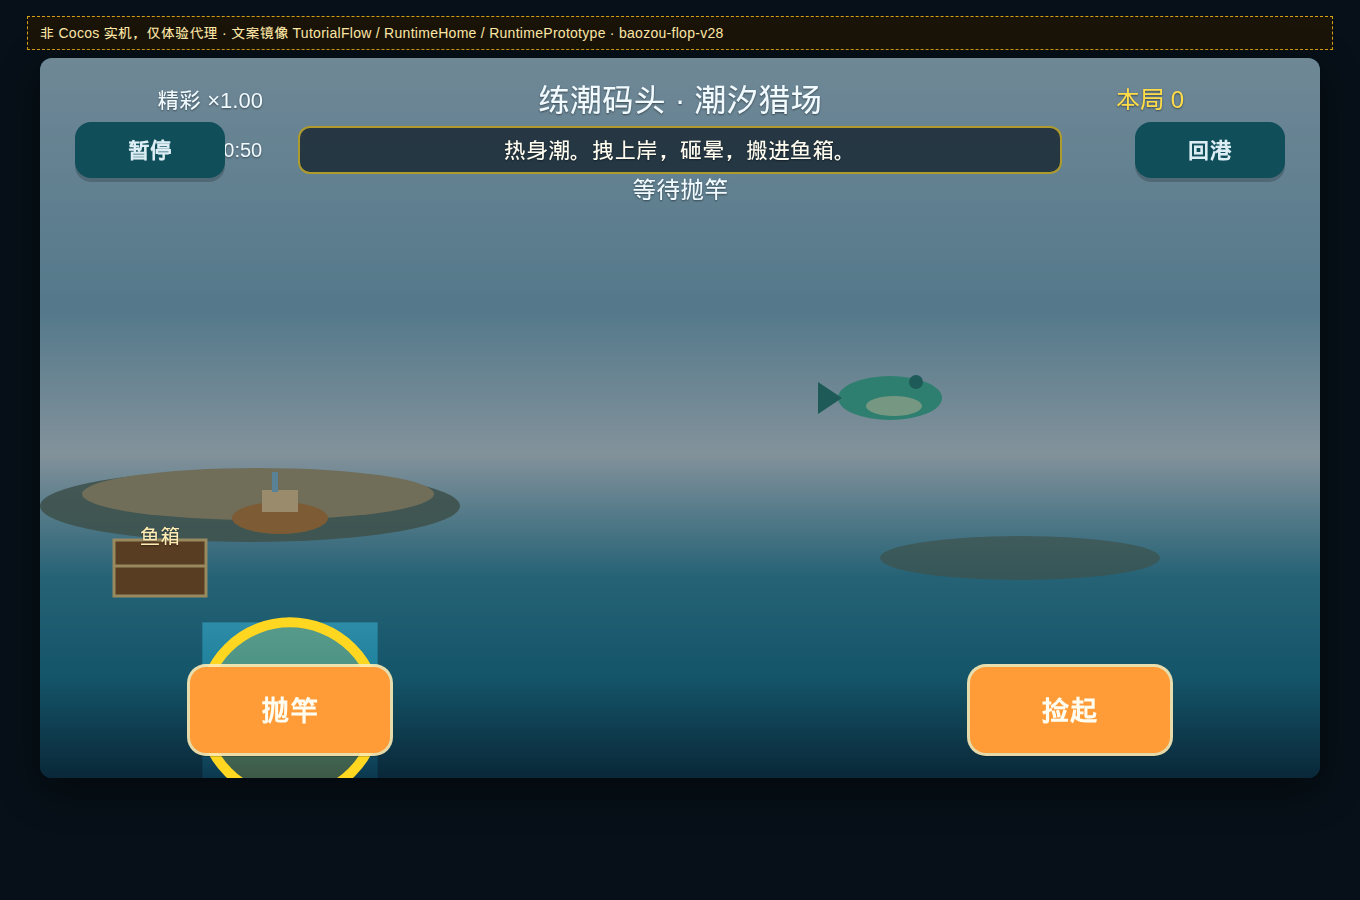
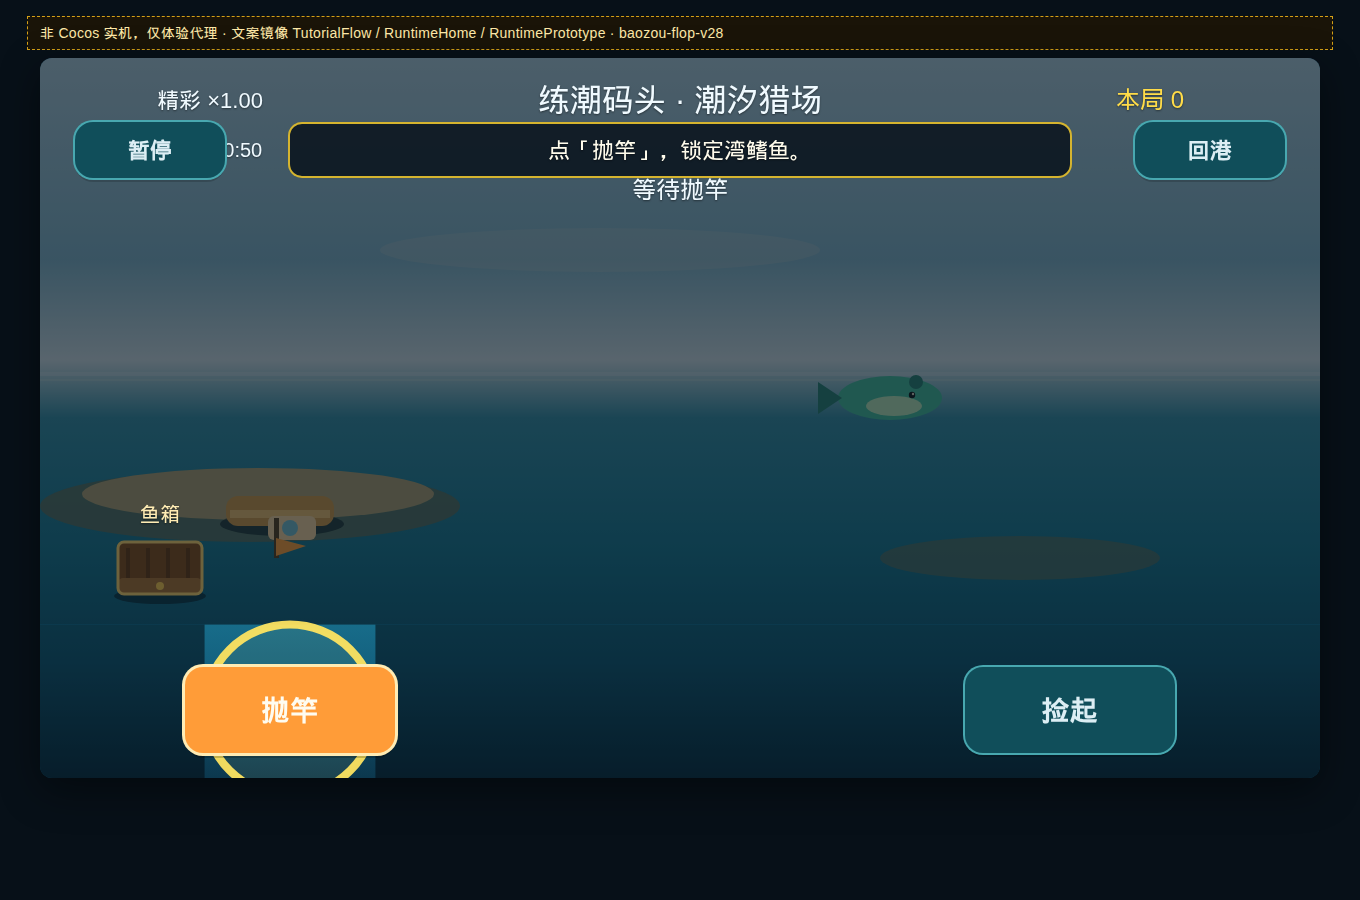
强化代理海景岛影与教学旁白断言
港口画出三岛与码头分区；教学旁白断言改验旁白状态而非时钟「热身潮」字样。

diff --git a/tools/first-run-preview/preview.js b/tools/first-run-preview/preview.js
@@ -206,20 +206,114 @@ function setStatus(value) {
   statusFlash = value;
 }
 
-function paintSea(ctx, look) {
+function paintPalm(ctx, x, y, s, look) {
+  ctx.fillStyle = rgb(look.accent);
+  ctx.fillRect(x - 3 * s, y, 6 * s, 28 * s);
+  ctx.fillStyle = rgb(look.landDark);
+  ctx.beginPath();
+  ctx.moveTo(x, y + 30 * s);
+  ctx.lineTo(x - 22 * s, y + 18 * s);
+  ctx.lineTo(x - 8 * s, y + 24 * s);
+  ctx.closePath();
+  ctx.fill();
+  ctx.beginPath();
+  ctx.moveTo(x, y + 30 * s);
+  ctx.lineTo(x + 22 * s, y + 16 * s);
+  ctx.lineTo(x + 6 * s, y + 24 * s);
+  ctx.closePath();
+  ctx.fill();
+}
+
+function paintFoamIsle(ctx, x, y, s, look) {
+  ctx.fillStyle = rgb(look.landDark, 0.7);
+  ctx.beginPath();
+  ctx.ellipse(x, y, 78 * s, 22 * s, 0, 0, Math.PI * 2);
+  ctx.fill();
+  ctx.fillStyle = rgb(look.land);
+  ctx.beginPath();
+  ctx.ellipse(x, y - 8 * s, 70 * s, 18 * s, 0, 0, Math.PI * 2);
+  ctx.fill();
+  paintPalm(ctx, x - 18 * s, y - 10 * s, s, look);
+  paintPalm(ctx, x + 16 * s, y - 8 * s, 0.75 * s, look);
+}
+
+function paintPrismIsle(ctx, x, y, s, look) {
+  ctx.fillStyle = rgb(look.landDark, 0.63);
+  ctx.beginPath();
+  ctx.ellipse(x, y, 70 * s, 16 * s, 0, 0, Math.PI * 2);
+  ctx.fill();
+  ctx.fillStyle = rgb(look.land);
+  ctx.beginPath();
+  ctx.moveTo(x - 40 * s, y - 6 * s);
+  ctx.lineTo(x - 8 * s, y - 54 * s);
+  ctx.lineTo(x + 18 * s, y - 6 * s);
+  ctx.closePath();
+  ctx.fill();
+  ctx.fillStyle = rgb(look.accent);
+  ctx.beginPath();
+  ctx.moveTo(x - 6 * s, y - 6 * s);
+  ctx.lineTo(x + 16 * s, y - 62 * s);
+  ctx.lineTo(x + 34 * s, y - 6 * s);
+  ctx.closePath();
+  ctx.fill();
+}
+
+function paintStormIsle(ctx, x, y, s, look) {
+  ctx.fillStyle = rgb(look.landDark, 0.78);
+  ctx.beginPath();
+  ctx.ellipse(x, y, 88 * s, 20 * s, 0, 0, Math.PI * 2);
+  ctx.fill();
+  ctx.fillStyle = rgb(look.land);
+  ctx.beginPath();
+  ctx.moveTo(x - 48 * s, y - 4 * s);
+  ctx.lineTo(x, y - 58 * s);
+  ctx.lineTo(x + 48 * s, y - 4 * s);
+  ctx.closePath();
+  ctx.fill();
+  ctx.fillStyle = rgb(look.accent);
+  ctx.beginPath();
+  ctx.ellipse(x, y - 58 * s, 12 * s, 6 * s, 0, 0, Math.PI * 2);
+  ctx.fill();
+}
+
+function paintSun(ctx, x, y, look) {
+  ctx.fillStyle = rgb(look.accent, 0.31);
+  ctx.beginPath();
+  ctx.arc(x, y, 36, 0, Math.PI * 2);
+  ctx.fill();
+  ctx.fillStyle = rgb(look.accent);
+  ctx.beginPath();
+  ctx.arc(x, y, 22, 0, Math.PI * 2);
+  ctx.fill();
+}
+
+function paintPier(ctx) {
+  ctx.fillStyle = "rgba(16,42,58,0.78)";
+  ctx.beginPath();
+  ctx.roundRect(120, 568, 260, 18, 4);
+  ctx.fill();
+  ctx.fillStyle = "#8a6c40";
+  for (let i = 0; i < 5; i += 1) ctx.fillRect(140 + i * 48, 548, 10, 28);
+  ctx.fillStyle = "#b0844e";
+  ctx.beginPath();
+  ctx.roundRect(120, 576, 260, 10, 3);
+  ctx.fill();
+}
+
+function paintSea(ctx, look, harbor = false) {
   const sky = ctx.createLinearGradient(0, 0, 0, H);
   sky.addColorStop(0, rgb(look.skyTop));
-  sky.addColorStop(0.28, rgb(look.sky));
-  sky.addColorStop(0.42, rgb(look.haze));
-  sky.addColorStop(0.5, rgb(look.far));
-  sky.addColorStop(0.68, rgb(look.mid));
-  sky.addColorStop(0.84, rgb(look.near));
+  sky.addColorStop(0.22, rgb(look.sky));
+  sky.addColorStop(0.38, rgb(look.haze));
+  sky.addColorStop(0.48, rgb(look.far));
+  sky.addColorStop(0.66, rgb(look.mid));
+  sky.addColorStop(0.82, rgb(look.near));
   sky.addColorStop(1, rgb(look.deep));
   ctx.fillStyle = sky;
   ctx.fillRect(0, 0, W, H);
-  ctx.fillStyle = rgb([255, 236, 210], 0.14);
+  ctx.fillStyle = rgb([255, 236, 210], 0.16);
   ctx.beginPath();
-  ctx.ellipse(560, 192, 220, 22, 0, 0, Math.PI * 2);
+  ctx.ellipse(1060, 168, 220, 22, 0, 0, Math.PI * 2);
   ctx.fill();
   ctx.strokeStyle = rgb(look.haze, 0.43);
   ctx.lineWidth = 4;
@@ -227,24 +321,33 @@ function paintSea(ctx, look) {
   ctx.moveTo(0, 316);
   ctx.lineTo(W, 316);
   ctx.stroke();
-  ctx.strokeStyle = "rgba(255,252,236,0.14)";
+  ctx.strokeStyle = "rgba(255,252,236,0.16)";
   ctx.lineWidth = 2;
   ctx.beginPath();
   ctx.moveTo(0, 322);
   ctx.lineTo(W, 322);
   ctx.stroke();
-  ctx.fillStyle = rgb(look.landDark, 0.88);
-  ctx.beginPath();
-  ctx.ellipse(210, 448, 210, 36, 0, 0, Math.PI * 2);
-  ctx.fill();
-  ctx.fillStyle = rgb(look.land);
-  ctx.beginPath();
-  ctx.ellipse(218, 436, 176, 26, 0, 0, Math.PI * 2);
-  ctx.fill();
-  ctx.fillStyle = rgb(look.landDark, 0.7);
-  ctx.beginPath();
-  ctx.ellipse(980, 500, 140, 22, 0, 0, Math.PI * 2);
-  ctx.fill();
+  if (harbor) {
+    paintSun(ctx, 1060, 110, look);
+    paintFoamIsle(ctx, sx(-160), 282, 1, COPY.looks.foam);
+    paintPrismIsle(ctx, sx(170), 278, 1, COPY.looks.prism);
+    paintStormIsle(ctx, sx(470), 284, 0.85, COPY.looks.storm);
+    paintPier(ctx);
+  } else {
+    paintSun(ctx, 1100, 112, look);
+    paintFoamIsle(ctx, 1020, 280, 1.05, look);
+    paintFoamIsle(ctx, 220, 286, 0.7, look);
+    ctx.fillStyle = "rgba(176,124,70,0.92)";
+    ctx.beginPath();
+    ctx.roundRect(0, 478, 430, 98, 12);
+    ctx.fill();
+    ctx.fillStyle = "rgba(214,168,104,0.95)";
+    ctx.beginPath();
+    ctx.roundRect(0, 478, 430, 16, 8);
+    ctx.fill();
+    ctx.fillStyle = "rgba(142,96,52,0.9)";
+    for (let i = 0; i < 8; i += 1) ctx.fillRect(8 + i * 52, 498, 5, 70);
+  }
 }
 
 function paintBoat(ctx, x, y) {
@@ -448,7 +551,7 @@ function nextCtaHarbor() {
 function renderHarbor() {
   const look = COPY.looks.harbor;
   const ctx = bg.getContext("2d");
-  paintSea(ctx, look);
+  paintSea(ctx, look, true);
   const next = nextCtaHarbor();
   const complete = save.tutorialComplete;
   const displayIsland = complete ? COPY.islands[0].id : COPY.tutorialIsland.id;
@@ -474,7 +577,7 @@ function renderHarbor() {
         : COPY.harborPrompts.newSail;
   plate(0, 248, 820, 48, !complete);
   label(statusFlash || line, 20, 0, 248, 1100, rgb(COPY.colors.cream));
-  if (complete && COPY.firstRun.discovery) {
+  if (complete && COPY.firstRun.discovery && statusFlash !== COPY.firstRun.discovery) {
     label(COPY.firstRun.discovery, 24, 0, 206, 720, rgb(COPY.colors.gold));
   }
   for (const island of COPY.islands) {
@@ -539,7 +642,7 @@ function renderHarbor() {
 
 function renderSea() {
   const ctx = bg.getContext("2d");
-  paintSea(ctx, COPY.looks.tutorial);
+  paintSea(ctx, COPY.looks.tutorial, false);
   paintCrate(ctx);
   paintBoat(ctx, carrying ? -430 : -400, -90);
   if (tutorialStep !== "settle") {
@@ -606,7 +709,7 @@ function renderSea() {
 
 function renderSettle() {
   const ctx = bg.getContext("2d");
-  paintSea(ctx, COPY.looks.harbor);
+  paintSea(ctx, COPY.looks.harbor, true);
   paintGuide(ctx, "sell");
   hud.innerHTML = "";
   buttons.innerHTML = "";
@@ -769,7 +872,7 @@ function tick(now) {
   }
   if (surface === "settle" && settleGuide) {
     const ctx = bg.getContext("2d");
-    paintSea(ctx, COPY.looks.harbor);
+    paintSea(ctx, COPY.looks.harbor, true);
     paintGuide(ctx, "sell");
   }
   requestAnimationFrame(tick);
